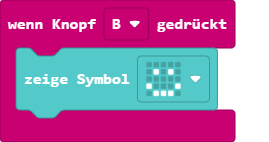
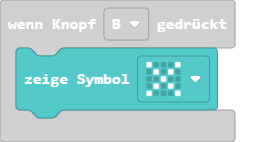
X statt Smiley

diff --git a/main.ts b/main.ts
@@ -2,7 +2,7 @@ input.onButtonPressed(Button.A, function () {
     basic.showIcon(IconNames.Heart)
 })
 input.onButtonPressed(Button.B, function () {
-    basic.showIcon(IconNames.Happy)
+    basic.showIcon(IconNames.No)
 })
 basic.forever(function () {
 	
